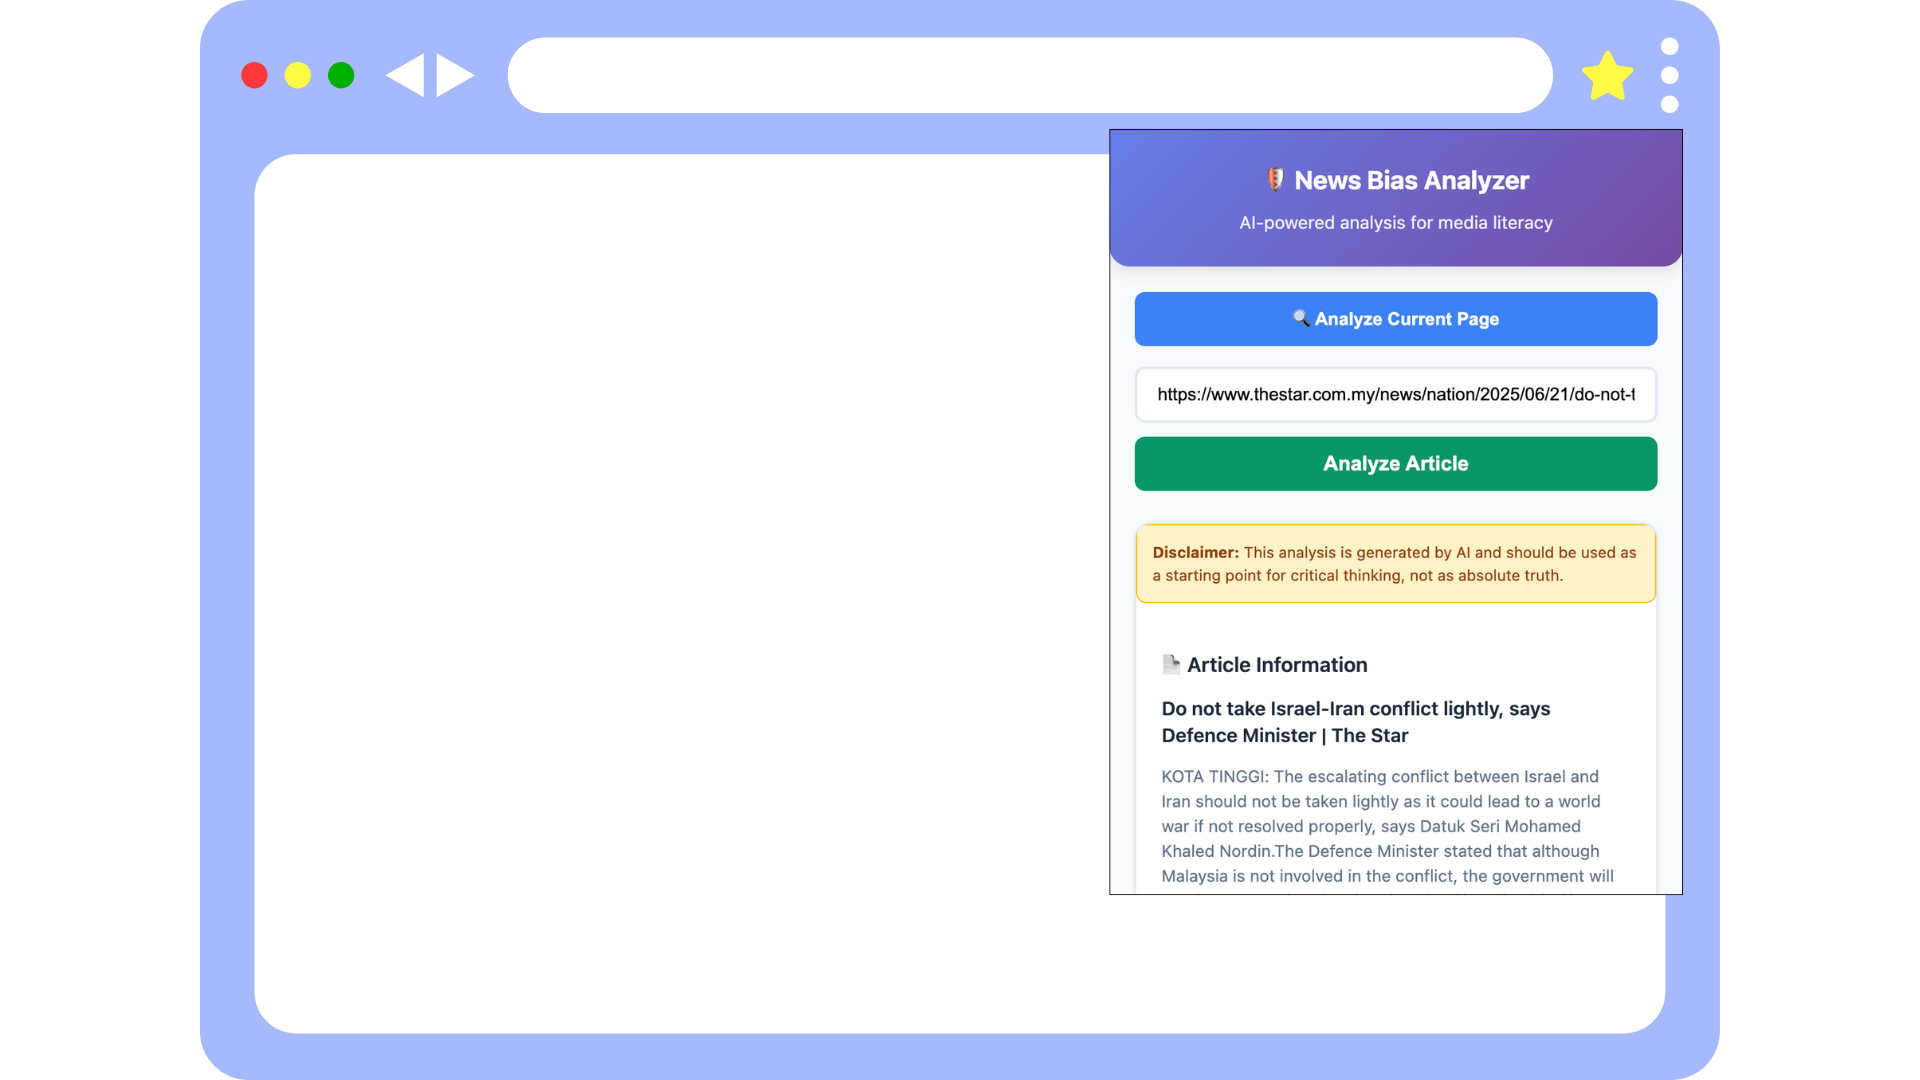
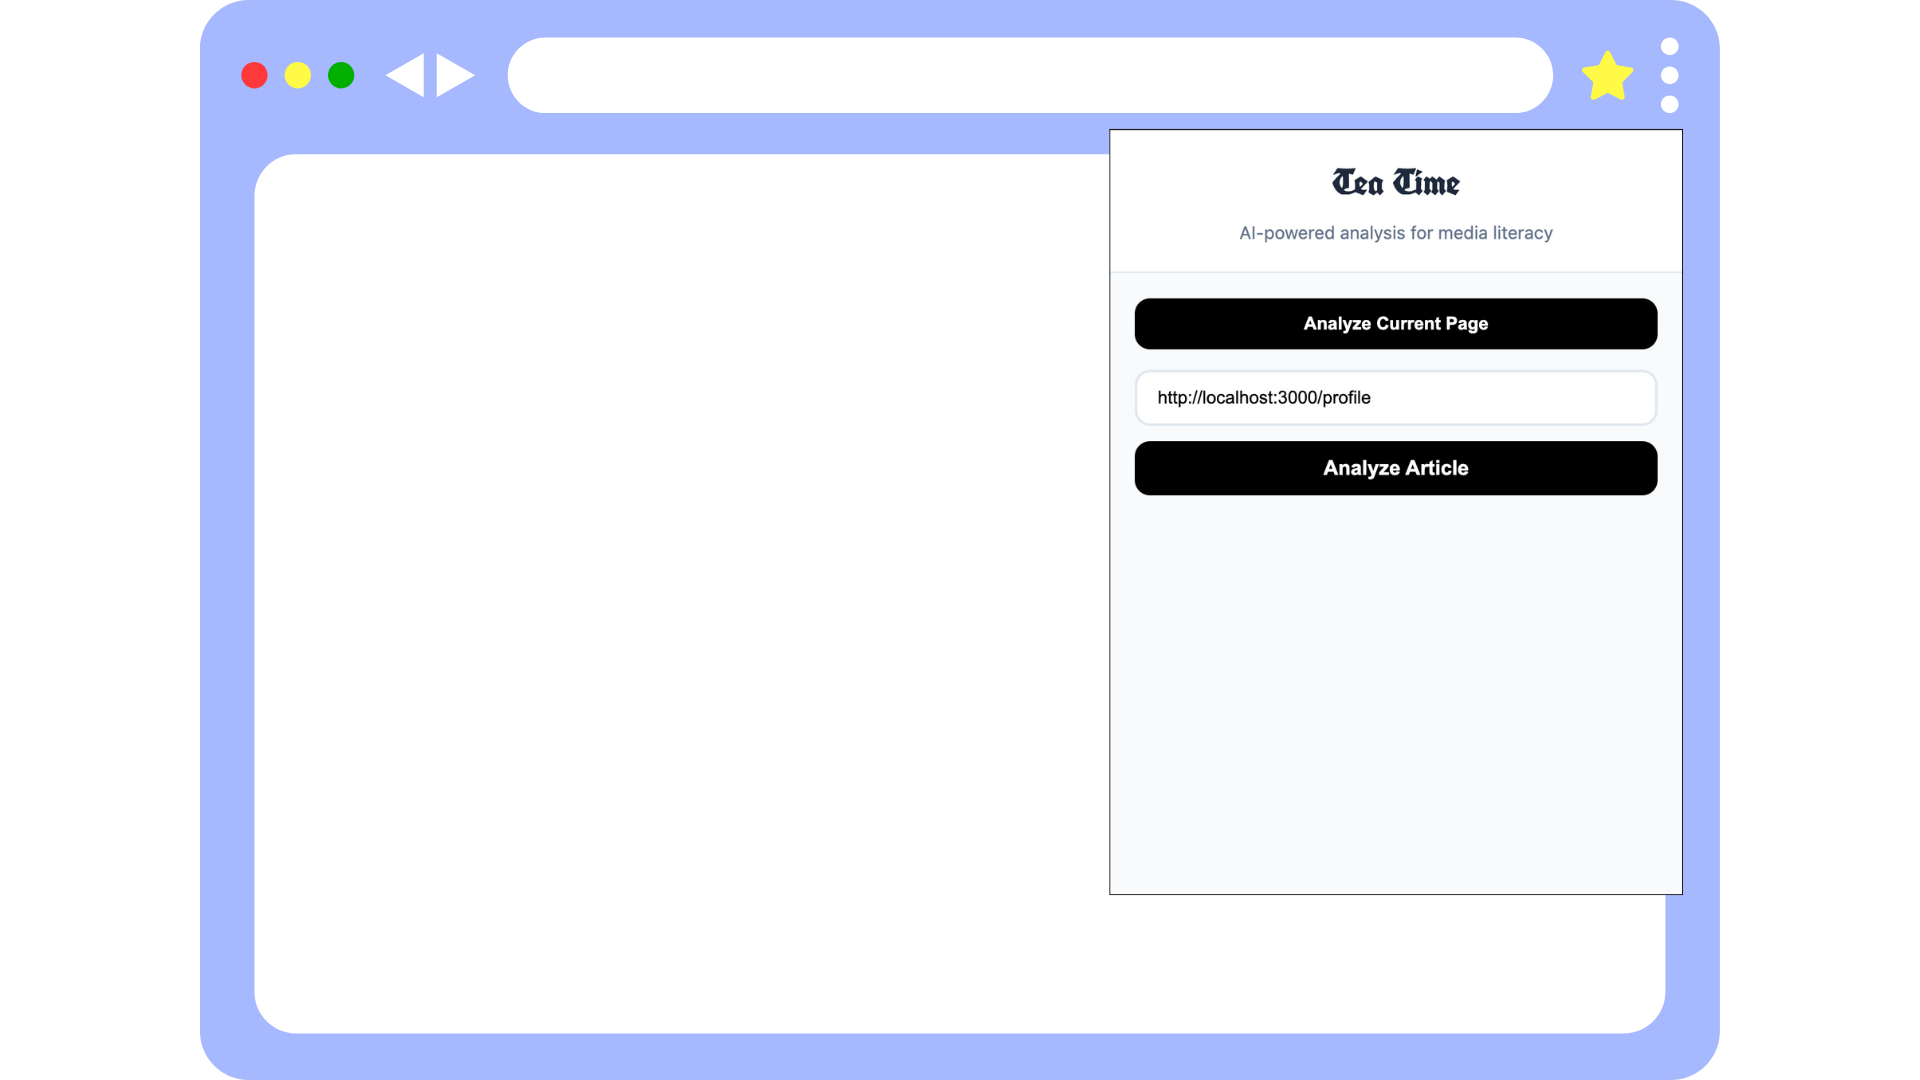
done extension fixes

Changed region(s): [[0.5625, 0.1222, 0.875, 0.5806], [0.5938, 0.6111, 0.8438, 0.825]]

diff --git a/components/CommentsSection.js b/components/CommentsSection.js
@@ -64,7 +64,7 @@ export default function CommentsSection({ article, onAddComment }) {
     setCommentAnalysis(null);
     
     try {
-      // Extract meaningful comment content for analysis
+      // Extract comment content for analysis
       const commentContents = comments.map(comment => comment.content);
       
       const response = await fetch('/api/analyzeComments', {
@@ -119,46 +119,47 @@ export default function CommentsSection({ article, onAddComment }) {
 
   // Get tendency color and styling based on score
   const getTendencyInfo = (score) => {
-    // Convert 0-100 scale to 0-10 scale for consistency with bias meter
-    const scaledScore = Math.round(score / 10);
-    
-    if (scaledScore <= 3) {
+    if (score >= 81) {
       return {
-        label: 'Very Negative',
-        color: 'text-red-600',
-        bgColor: 'bg-red-50',
-        borderColor: 'border-red-200',
-        progressColor: 'bg-red-500',
-        scaledScore: scaledScore
+        label: 'Very Positive',
+        color: 'text-green-700',
+        bgColor: 'bg-green-50',
+        borderColor: 'border-green-200',
+        progressColor: 'bg-green-500'
       };
-    } else if (scaledScore <= 6) {
+    } else if (score >= 61) {
+      return {
+        label: 'Positive',
+        color: 'text-green-600',
+        bgColor: 'bg-green-50',
+        borderColor: 'border-green-200',
+        progressColor: 'bg-green-400'
+      };
+    } else if (score >= 41) {
       return {
         label: 'Neutral/Mixed',
         color: 'text-yellow-600',
         bgColor: 'bg-yellow-50',
         borderColor: 'border-yellow-200',
-        progressColor: 'bg-yellow-500',
-        scaledScore: scaledScore
+        progressColor: 'bg-yellow-400'
+      };
+    } else if (score >= 21) {
+      return {
+        label: 'Negative',
+        color: 'text-red-600',
+        bgColor: 'bg-red-50',
+        borderColor: 'border-red-200',
+        progressColor: 'bg-red-400'
       };
     } else {
       return {
-        label: 'Very Positive',
-        color: 'text-green-600',
-        bgColor: 'bg-green-50',
-        borderColor: 'border-green-200',
-        progressColor: 'bg-green-500',
-        scaledScore: scaledScore
+        label: 'Very Negative',
+        color: 'text-red-700',
+        bgColor: 'bg-red-50',
+        borderColor: 'border-red-200',
+        progressColor: 'bg-red-500'
       };
     }
-  };
-
-  const getMeterColor = (position, scaledScore) => {
-    if (position <= scaledScore) {
-      if (scaledScore <= 3) return 'bg-red-500';
-      if (scaledScore <= 6) return 'bg-yellow-500';
-      return 'bg-green-500';
-    }
-    return 'bg-gray-200';
   };
 
   return (
@@ -267,22 +268,13 @@ export default function CommentsSection({ article, onAddComment }) {
                 <div className="flex items-center gap-2 mb-4">
                   <ChartBarIcon className="w-5 h-5 text-blue-600" />
                   <h3 className="text-lg font-semibold text-gray-900">Comment Analysis</h3>
+                  {isAnalyzing && <Spinner size="sm" color="primary" />}
                 </div>
 
                 {isAnalyzing ? (
                   <div className="text-center py-6">
                     <Spinner size="md" color="primary" className="mb-3" />
                     <p className="text-sm text-gray-600">Analyzing {comments.length} comments...</p>
-                  </div>
-                ) : commentAnalysis?.hasNoValue ? (
-                  <div className="bg-gray-50 border border-gray-200 rounded-lg p-4">
-                    <div className="text-center py-4">
-                      <div className="text-4xl mb-3">🤷♂</div>
-                      <p className="text-sm text-gray-600 font-medium">{commentAnalysis.message}</p>
-                      <p className="text-xs text-gray-500 mt-2">
-                        All {commentAnalysis.totalComments} comments were filtered out as gibberish or meaningless.
-                      </p>
-                    </div>
                   </div>
                 ) : commentAnalysis?.error ? (
                   <div className="bg-red-50 border border-red-200 rounded-lg p-4">
@@ -299,16 +291,6 @@ export default function CommentsSection({ article, onAddComment }) {
                   </div>
                 ) : commentAnalysis ? (
                   <div className="space-y-4">
-                    {/* Analysis Info */}
-                    {commentAnalysis.filteredComments > 0 && (
-                      <div className="bg-blue-50 border border-blue-200 rounded-lg p-3">
-                        <p className="text-xs text-blue-800">
-                          Analyzed {commentAnalysis.meaningfulComments} of {commentAnalysis.totalComments} comments 
-                          ({commentAnalysis.filteredComments} filtered out as gibberish by AI)
-                        </p>
-                      </div>
-                    )}
-
                     {/* Overall Sentiment */}
                     <div className="bg-white rounded-lg p-4 border">
                       <h4 className="font-medium text-gray-900 mb-3">Overall Sentiment</h4>
@@ -318,52 +300,19 @@ export default function CommentsSection({ article, onAddComment }) {
                           <div className="space-y-3">
                             <div className="flex items-center justify-between">
                               <span className="text-2xl font-bold text-gray-900">
-                                {tendencyInfo.scaledScore}/10
+                                {commentAnalysis.tendencyScore}%
                               </span>
                               <span className={`px-2 py-1 rounded-full text-xs font-medium border ${tendencyInfo.color} ${tendencyInfo.bgColor} ${tendencyInfo.borderColor}`}>
                                 {tendencyInfo.label}
                               </span>
                             </div>
                             
-                            {/* 10-Segment Meter Bar */}
-                            <div className="mb-4">
-                              <div className="flex justify-between items-center mb-2">
-                                <span className="text-sm text-red-600 font-medium">Negative</span>
-                                <span className="text-sm text-green-600 font-medium">Positive</span>
-                              </div>
-                              
-                              {/* Meter Bar */}
-                              <div className="flex gap-1 mb-2">
-                                {[...Array(10)].map((_, index) => (
-                                  <div
-                                    key={index}
-                                    className={`h-6 flex-1 rounded-sm ${getMeterColor(index + 1, tendencyInfo.scaledScore)}`}
-                                  />
-                                ))}
-                              </div>
-                              
-                              {/* Scale Numbers */}
-                              <div className="flex justify-between text-xs text-gray-500">
-                                {[0, 1, 2, 3, 4, 5, 6, 7, 8, 9, 10].map(num => (
-                                  <span key={num}>{num}</span>
-                                ))}
-                              </div>
-                            </div>
-
-                            {/* Color Legend */}
-                            <div className="flex items-center gap-4 text-sm">
-                              <div className="flex items-center gap-2">
-                                <div className="w-4 h-4 bg-red-500 rounded"></div>
-                                <span className="text-gray-600">Negative (0-3)</span>
-                              </div>
-                              <div className="flex items-center gap-2">
-                                <div className="w-4 h-4 bg-yellow-500 rounded"></div>
-                                <span className="text-gray-600">Neutral (4-6)</span>
-                              </div>
-                              <div className="flex items-center gap-2">
-                                <div className="w-4 h-4 bg-green-500 rounded"></div>
-                                <span className="text-gray-600">Positive (7-10)</span>
-                              </div>
+                            {/* Progress Bar */}
+                            <div className="relative w-full h-2 bg-gray-200 rounded-full">
+                              <div 
+                                className={`absolute left-0 top-0 h-full rounded-full transition-all duration-500 ${tendencyInfo.progressColor}`}
+                                style={{ width: `${commentAnalysis.tendencyScore}%` }}
+                              />
                             </div>
                             
                             {commentAnalysis.tendencyExplanation && (

diff --git a/extension/popup.html b/extension/popup.html
@@ -3,7 +3,8 @@
 <head>
     <meta charset="UTF-8">
     <meta name="viewport" content="width=device-width, initial-scale=1.0">
-    <title>News Bias Analyzer</title>
+    <title>Tea Time - News Bias Analyzer</title>
+    <link href="https://fonts.googleapis.com/css2?family=UnifrakturCook:wght@700&display=swap" rel="stylesheet">
     <style>
         * {
             box-sizing: border-box;
@@ -18,30 +19,29 @@
             background: #f8fafc;
             color: #334155;
             line-height: 1.5;
+            border-radius: 16px;
+            overflow: hidden;
         }
 
         .header {
-            background: linear-gradient(135deg, #667eea 0%, #764ba2 100%);
-            color: white;
-            padding: 24px 20px;
+            background: white;
+            color: #334155;
+            padding: 20px;
             text-align: center;
-            border-radius: 0 0 16px 16px;
-            box-shadow: 0 4px 12px rgba(0, 0, 0, 0.1);
+            border-bottom: 1px solid #e2e8f0;
         }
 
         .header h1 {
             margin: 0;
-            font-size: 20px;
+            font-size: 28px;
             font-weight: 700;
-            display: flex;
-            align-items: center;
-            justify-content: center;
-            gap: 8px;
+            font-family: 'UnifrakturCook', cursive;
+            color: #1e293b;
         }
 
         .header p {
             margin: 8px 0 0;
-            opacity: 0.9;
+            color: #64748b;
             font-size: 14px;
             font-weight: 400;
         }
@@ -63,11 +63,11 @@
 
         .current-page-btn {
             width: 100%;
-            background: #3b82f6;
+            background: black;
             color: white;
             border: none;
             padding: 12px 16px;
-            border-radius: 8px;
+            border-radius: 12px;
             cursor: pointer;
             font-size: 14px;
             font-weight: 600;
@@ -79,7 +79,7 @@
         }
 
         .current-page-btn:hover {
-            background: #2563eb;
+            background:rgb(90, 89, 89);
             transform: translateY(-1px);
         }
 
@@ -87,7 +87,7 @@
             width: 100%;
             padding: 12px 16px;
             border: 2px solid #e2e8f0;
-            border-radius: 8px;
+            border-radius: 12px;
             font-size: 14px;
             transition: border-color 0.2s ease;
             background: white;
@@ -101,11 +101,11 @@
 
         .analyze-btn {
             width: 100%;
-            background: #10b981;
+            background: black;
             color: white;
             border: none;
             padding: 12px 16px;
-            border-radius: 8px;
+            border-radius: 12px;
             cursor: pointer;
             font-size: 16px;
             font-weight: 600;
@@ -114,7 +114,7 @@
         }
 
         .analyze-btn:hover {
-            background: #059669;
+            background: rgb(90, 89, 89);
             transform: translateY(-1px);
         }
 
@@ -128,7 +128,7 @@
             text-align: center;
             padding: 32px 20px;
             background: white;
-            border-radius: 12px;
+            border-radius: 16px;
             border: 1px solid #e2e8f0;
         }
 
@@ -156,7 +156,7 @@
         .error {
             background: #fef2f2;
             border: 1px solid #fca5a5;
-            border-radius: 8px;
+            border-radius: 12px;
             padding: 16px;
             margin-bottom: 20px;
             color: #dc2626;
@@ -166,7 +166,7 @@
 
         .results {
             background: white;
-            border-radius: 12px;
+            border-radius: 16px;
             border: 1px solid #e2e8f0;
             overflow: hidden;
             box-shadow: 0 1px 3px rgba(0, 0, 0, 0.1);
@@ -210,7 +210,7 @@
         .bias-meter {
             background: #f8fafc;
             border: 1px solid #e2e8f0;
-            border-radius: 8px;
+            border-radius: 12px;
             padding: 16px;
             margin-bottom: 16px;
         }
@@ -258,7 +258,7 @@
         .meter-segment {
             height: 24px;
             flex: 1;
-            border-radius: 2px;
+            border-radius: 4px;
             background: #e2e8f0;
         }
 
@@ -289,7 +289,7 @@
         .legend-color {
             width: 12px;
             height: 12px;
-            border-radius: 2px;
+            border-radius: 3px;
         }
 
         .bias-analysis {
@@ -317,7 +317,7 @@
             padding: 12px;
             background: #f8fafc;
             border: 1px solid #e2e8f0;
-            border-radius: 6px;
+            border-radius: 8px;
             transition: all 0.2s ease;
             line-height: 1.4;
         }
@@ -335,7 +335,7 @@
         .disclaimer {
             background: #fef3c7;
             border: 1px solid #fbbf24;
-            border-radius: 8px;
+            border-radius: 12px;
             padding: 12px;
             margin-bottom: 16px;
             font-size: 12px;
@@ -345,7 +345,7 @@
         .structured-content {
             background: #f8fafc;
             border: 1px solid #e2e8f0;
-            border-radius: 8px;
+            border-radius: 12px;
             padding: 16px;
             margin-top: 12px;
         }
@@ -367,7 +367,7 @@
 </head>
 <body>
     <div class="header">
-        <h1>🛡 News Bias Analyzer</h1>
+        <h1>Tea Time</h1>
         <p>AI-powered analysis for media literacy</p>
     </div>
 
@@ -375,7 +375,7 @@
         <div class="input-section">
             <div class="button-group">
                 <button id="analyzeCurrentPage" class="current-page-btn">
-                    🔍 Analyze Current Page
+                    Analyze Current Page
                 </button>
             </div>
             
